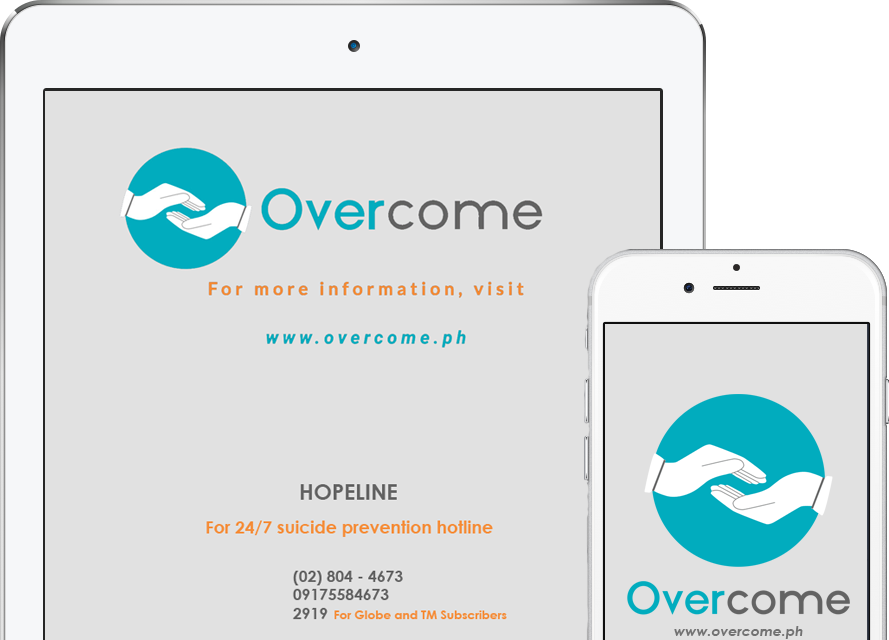
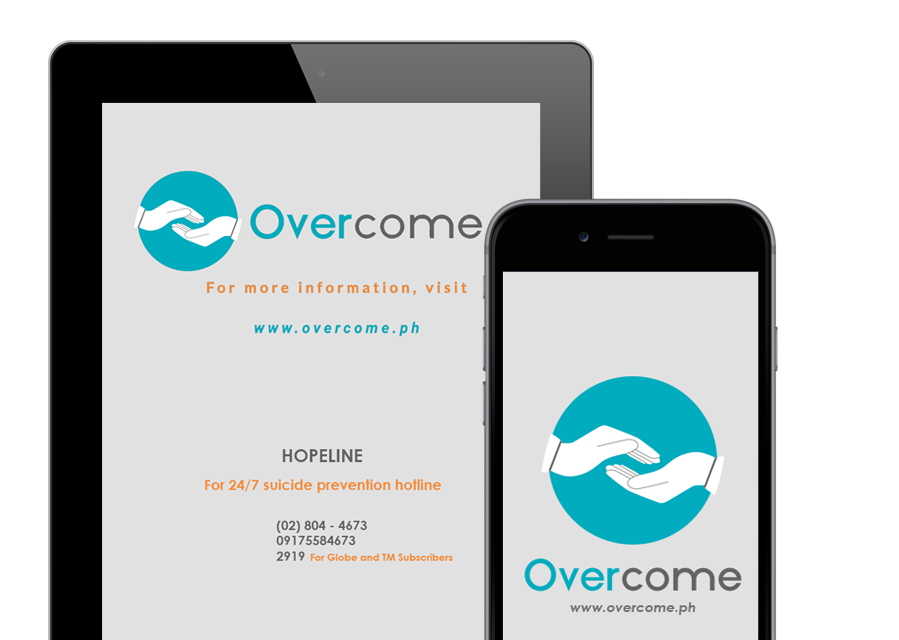
with landing page changes

diff --git a/public/css/styles.css b/public/css/styles.css
@@ -492,13 +492,13 @@ Features-stack
     padding-bottom: 0px;
     border-bottom: none; }
   .features .ipad-wrap {
-    width: 650px;
-    height: 900px;
+    width: 700px;
+    height: 1200px;
     background: url("../img/ipad.png") no-repeat center center;
     z-index: 1; }
   .features .iphone-wrap {
-    width: 280px;
-    height: 600px;
+    width: 320px;
+    height: 720px;
     background: url("../img/iphone6edit.png") no-repeat center center;
     position: absolute;
     left: 530px;
@@ -594,10 +594,12 @@ Features-stack
 .signupp {
   font-size: 14px;
   line-height: 18px;
-  color: rgba(19, 40, 61, 0.6);
+  color: #000;
   padding-bottom: 20px;
   margin-top: 10px;
+  
  }
+
 
  .btn-signup {
   font-size: 13px;
@@ -1242,28 +1244,48 @@ you can use the generic selector below, but it's slower:
 }
 
 .signup1{
-  background: #fff;
-  border: solid #01acbe 1px;
+  background: url("../img/counselling.png") no-repeat center center;
   margin-left:15px;
-  border-radius: 1rem;
   width:50%;
+ 
 }
+
+
+
+.signup11{
+  margin: 30px;
+  background-color: #f3f4f8;
+  opacity: 0.6;
+  filter: alpha(opacity=60);
+ 
+}
+
 
 .signup2{
-  background: #fff;
-  border: solid #01acbe 1px;
+
   margin-right:15px;
-  margin-left:15px;
-  border-radius: 1rem;
   width:50%;
+  background: url("../img/signupdoc.png") no-repeat center center;
 }
 
+.signup11:hover{
+  background: #cecece;
+  -moz-transition: all 1s ease-in;
+  /* WebKit */
+  -webkit-transition: all 1s ease-in;
+  /* Opera */
+  -o-transition: all 1s ease-in;
+  /* Standard */
+  transition: all 1s ease-in;
+  
+}
 .signupcontent{
-  margin-left:25px;
+  padding: 20px;
+
 }
 
 .blogh{
-  color:#17a2b8;
+  color:#0293a3;
   text-decoration: underline;
   font-size: 18px;
 
@@ -1271,7 +1293,7 @@ you can use the generic selector below, but it's slower:
 
 .spann{
     display:inline-block;
-    border-bottom:2px solid #01acbe;
+    border-bottom:2px solid #0293a3;
     padding-bottom:10px;
     align-items: center;
 }

diff --git a/resources/views/layouts/pnavbar.blade.php b/resources/views/layouts/pnavbar.blade.php
@@ -26,38 +26,33 @@
 
                       </a>
                     </li>
-                    <li class="{{ Request::is('profile') ? 'active' : '' }}">
-                        <a href="profile" class="sidebaritem" data-toggle="tooltip" data-placement="right" title="Profile">
+                    <li class="{{ Request::is('patientprofile') ? 'active' : '' }}">
+                        <a href="user_profile" class="sidebaritem" data-toggle="tooltip" data-placement="right" title="Profile">
                         <i class="material-icons">person</i>
                         <font class="sidetext">Profile</font>
                       </a>
                     </li>
-                    <li class="{{ Request::is('appointments') ? 'active' : '' }}">
-                        <a href="appointments" class="sidebaritem" data-toggle="tooltip" data-placement="right" title="Appointments">
+                    <li class="{{ Request::is('patientappointment') ? 'active' : '' }}">
+                        <a href="user_appointments" class="sidebaritem" data-toggle="tooltip" data-placement="right" title="Appointments">
                           <i class="material-icons">date_range</i>
                         <font class="sidetext">Appointments</font>
                       </a>
                     </li>
-                    <li class="{{ Request::is('calendar') ? 'active' : '' }}">
-                        <a href="calendar" class="sidebaritem" data-toggle="tooltip" data-placement="right" title="Diary">
+                    <li class="{{ Request::is('patientdiary') ? 'active' : '' }}">
+                        <a href="user_diary" class="sidebaritem" data-toggle="tooltip" data-placement="right" title="Diary">
                           <i class="material-icons">content_paste</i>
                         <font class="sidetext">Diary</font>
                       </a>
                     </li>
-                    <li>
-                        <a href="#homeSubmenu" class="sidebaritem" data-toggle="tooltip" data-placement="right" title="Patients">
-                        <i class="material-icons">person_outline</i>
-                        <font class="sidetext">Patients</font>
-                      </a>
-                    </li>
-                    <li>
-                        <a href="#homeSubmenu" class="sidebaritem" data-toggle="tooltip" data-placement="right" title="Messages">
+                
+                    <li  class="{{ Request::is('usermessage') ? 'active' : '' }}">
+                        <a href="user_messages" class="sidebaritem" data-toggle="tooltip" data-placement="right" title="Messages">
                         <i class="material-icons">mail_outline</i>
                         <font class="sidetext">Messages</font>
                       </a>
                     </li>
-                    <li>
-                        <a href="#homeSubmenu" class="sidebaritem" data-toggle="tooltip" data-placement="right" title="e-Counseling">
+                    <li  class="{{ Request::is('patientdoctors') ? 'active' : '' }}">
+                        <a href="user_ecounseling" class="sidebaritem" data-toggle="tooltip" data-placement="right" title="e-Counseling">
                         <i class="material-icons">people_outline</i>
                         <font class="sidetext">e-Counseling</font>
                       </a>
@@ -68,8 +63,8 @@
                         <font class="sidetext">Podcast</font>
                       </a>
                     </li>
-                    <li>
-                        <a href="#homeSubmenu" class="sidebaritem" data-toggle="tooltip" data-placement="right" title="My Wallet">
+                    <li  class="{{ Request::is('patientwallet') ? 'active' : '' }}">
+                        <a href="user_wallet" class="sidebaritem" data-toggle="tooltip" data-placement="right" title="My Wallet">
                         <i class="material-icons">account_balance_wallet</i>
                         <font class="sidetext">My Wallet</font>
                       </a>

diff --git a/resources/views/index.blade.php b/resources/views/index.blade.php
@@ -192,6 +192,7 @@ by listening to and understanding your symptoms.</p>
         <div class="containerforsignup">
            
            <div class="signup1">
+               <div class="signup11">
            <h3 style="margin-left:15px;margin-bottom:25px;">Why Join as a Patient?</h3>
            <div class="signupcontent">
            <big class="blogh">Easy to use</big>
@@ -204,8 +205,10 @@ by listening to and understanding your symptoms.</p>
                 <p class="signupp">Book your session on your own convenience. Either it will be an e-counseling or on-site counseling.</p>            
                 <a href="#" class="btn btn-fill btn-md" style="margin-bottom:15px;">Sign Up as Patient</a>
                 </div>
+</div>
            </div>
            <div class="signup2">
+               <div class="signup11">
            <h3 style="margin-left:15px;margin-bottom:25px;">Why work as a Psychologist</h3>
            <div class="signupcontent">
            <big class="blogh">Additional Income</big>
@@ -216,16 +219,17 @@ by listening to and understanding your symptoms.</p>
                 
                 <big class="blogh">Hassle Free</big>
                 <p class="signupp">Book your session on your own convenience. Either it will be an e-counseling or on-site counseling.</p>            
-                <a href="#" class="btn btn-fill btn-md" style="margin-bottom:15px;margin-top:15px;">Sign Up as Pyschologist</a>
-                
+                <a href="#" class="btn btn-fill btn-md" style="margin-bottom:15px;">Sign Up as Pyschologist</a>
+</div>
                 </div>
            </div>
+         
         </div>
     </section>
    
 <section class="faq section-padding text-center" id="faq">
 <div class="container">
-    <p>for faq</p>
+    <p>for faqy</p>
 </div>
 </section>
 

diff --git a/resources/views/patientwallet.blade.php b/resources/views/patientwallet.blade.php
@@ -1,6 +1,7 @@
 @extends ('layouts.pnavbar')
 @section ('content')
-
+    <link rel="stylesheet" href="https://cdn.datatables.net/1.10.16/css/jquery.dataTables.min.css">
+    <script src="https://cdn.datatables.net/1.10.16/js/jquery.dataTables.min.js"></script>
     <div class="container">
         <span class="charchar"><button class="btnPrint btn btn-outline-info btn-md"><i class="material-icons">print</i></button></span>
         <span class="charchar"><button class="btnDownload btn btn-outline-info btn-md"><i class="material-icons">file_download</i></button></span>
@@ -74,5 +75,9 @@ $('.btnPrint').on('click',function(){
 	printData();
 })  
 
+
+$(document).ready(function(){
+  $('#printsumTable').DataTable();
+});
 </script>
 @endsection

diff --git a/resources/views/psychmessage.blade.php b/resources/views/psychmessage.blade.php
@@ -4,7 +4,7 @@
 
     <div class="nt card text-white bg-secondary mb-3 w-75 h-75 " >
         <div class="newtext2 card">
-        <a href="messages_openmessage">
+        <a href="conversation">
         <div class="cont1">
             <img class="sender rounded-circle d-block" src="{{ asset('images/pic.png') }}" alt="profile picture">
             
@@ -21,7 +21,7 @@
 
 <hr>
  <div class="newtext2 card">
- <a href="messages_openmessage">
+ <a href="conversation">
         <div class="cont1">
             <img class="sender rounded-circle d-block" src="{{ asset('images/pic.png') }}" alt="profile picture">
             

diff --git a/routes/web.php b/routes/web.php
@@ -72,7 +72,7 @@ Route::get('/usermessages_openmessage', function () {
 });
 
 
-Route::get('/messages_openmessage', function () {
+Route::get('/conversation', function () {
     return view('psychnewmessage');
 });
 
